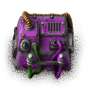
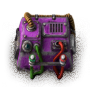
Publish v1.0.1
Increased default refresh rate from 32 ticks to 180 ticks.
Updated graphics to fix the miscolored red wire connection. Graphics courtesy of S6X.

diff --git a/README.md b/README.md
@@ -2,9 +2,9 @@
 This is a forked and updated version of starruler's [Pollution Combinator mod](https://mods.factorio.com/mod/pollution-combinator). It adds a new, simple combinator that outputs the amount of pollution in the chunk where it is placed as a new pollution signal.
 
 # Changes from original #
-- **Performance Improvements**: Pollution combinators now update every half second instead of every single game tick, and the update is distributed over multiple ticks instead of all on a single tick. The code is also more optimized to avoid unnecessary API calls when possible, improving performance.
+- **Performance Improvements**: Pollution combinators now update every 180 game ticks (3 seconds) instead of every single game tick, and the update is distributed over multiple ticks instead of all on a single tick. The code is also more optimized to avoid unnecessary API calls when possible, further improving performance.
 - **New Settings**: Two new settings were added to allow the user to control how often the combinators should update. If you want the combinators to update as frequently as the original mod, you can change the update rate to every 1 tick in the settings.
-- **New Appearance**: Using KirkMcDonald's [hue adjustment script](https://gist.github.com/KirkMcDonald/b84cbb6ad36d2dffb9d893a9b7358ff8), the pollution combinators have now been recolored to differentiate them from other combinators. It's not perfect (for instance, the red wire connection was also recolored by the script), but is still an improvement over the default combinator appearance.
+- **New Appearance**: Thanks to [S6X's](https://mods.factorio.com/user/S6X) kind contribution, the pollution combinators have now been recolored purple to differentiate them from other combinators.
 - **Picker Dollies Support**: Full support has been added for the Picker Dollies mod. When you move the combinators around with that mod, they will now update to output the pollution amount of their new position.
 - **Other Minor Fixes**: Includes various small fixes such as listening to more build/destroy events to ensure all placed combinators work as expected.
 
@@ -17,4 +17,4 @@ If you are switching from the original mod to this version, then everything will
 I did not conduct any full, proper performance tests. However, when playing on default settings and with 400 pollution combinators placed, I have a 95% performance impact reduction compared to the original mod. Even when updating on every tick like the original mod, I have a 30% performance impact reduction compared to the original mod. If you need further performance impact reductions, use the settings to update the combinators even less frequently than the default.
 
 # Future #
-There is still some room for potential further performance improvements. However, the current changes should be great for most players! If you'd like to contribute to help improve the mod further, feel free to check the Github and submit a pull request!
+There is still some room for potential further performance improvements. However, the current changes should still be great for most players! If you'd like to contribute to help improve the mod further, feel free to check the Github and submit a pull request!
